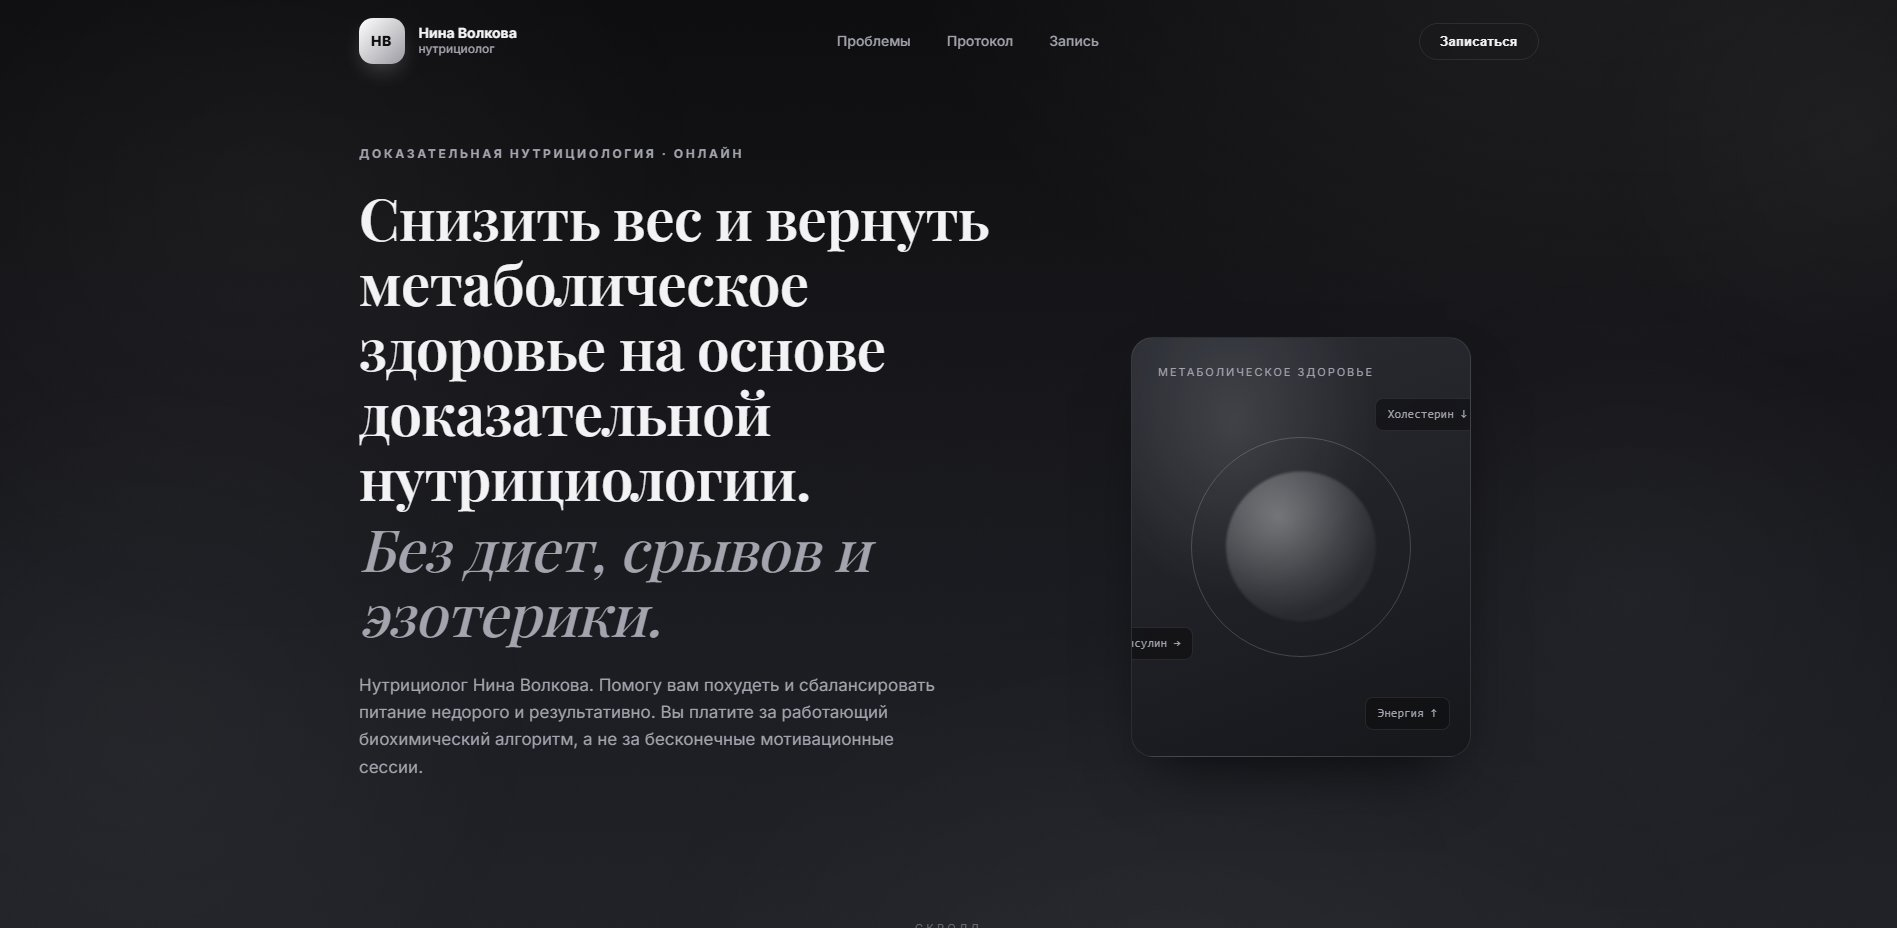
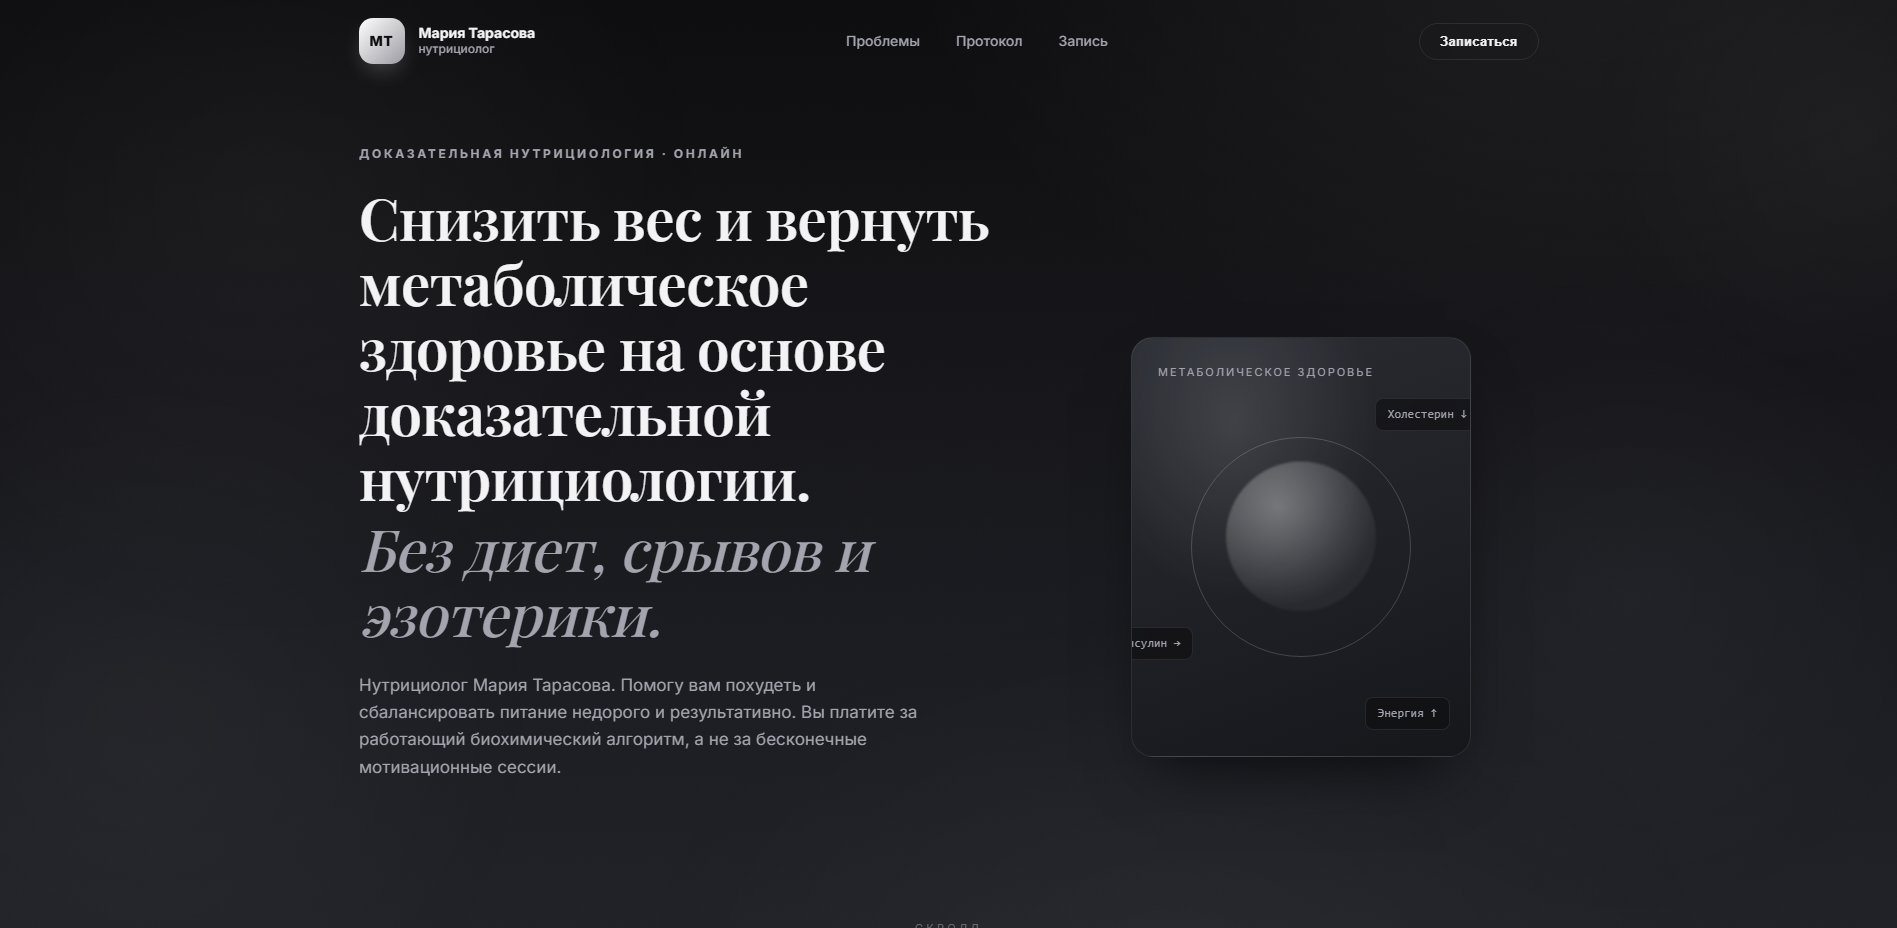
Нутрициолог: Нина Волкова -> Мария Тарасова (лендинг nutricion), обновлено превью project-1.jpg; кэш-бюст ?v=2

diff --git a/lendings/nutricion/index.html b/lendings/nutricion/index.html
@@ -3,7 +3,7 @@
 <head>
   <meta charset="UTF-8" />
   <meta name="viewport" content="width=device-width, initial-scale=1.0" />
-  <title>Нутрициолог Нина Волкова — доказательная нутрициология</title>
+  <title>Нутрициолог Мария Тарасова — доказательная нутрициология</title>
   <meta name="description" content="Снизить вес и вернуть метаболическое здоровье на основе доказательной нутрициологии. Без диет, срывов и эзотерики." />
   <link rel="preconnect" href="https://fonts.googleapis.com" />
   <link rel="preconnect" href="https://fonts.gstatic.com" crossorigin />
@@ -23,8 +23,8 @@
   <header class="header" id="header">
     <nav class="nav container">
       <a href="#hero" class="brand">
-        <span class="brand-mark">НВ</span>
-        <span class="brand-name">Нина Волкова<br /><small>нутрициолог</small></span>
+        <span class="brand-mark">МТ</span>
+        <span class="brand-name">Мария Тарасова<br /><small>нутрициолог</small></span>
       </a>
       <ul class="nav-links">
         <li><a href="#pain" class="js-anchor">Проблемы</a></li>
@@ -46,7 +46,7 @@
             <span class="accent">Без диет, срывов и эзотерики.</span>
           </h1>
           <p class="hero-sub reveal" data-reveal>
-            Нутрициолог Нина Волкова. Помогу вам похудеть и сбалансировать питание недорого
+            Нутрициолог Мария Тарасова. Помогу вам похудеть и сбалансировать питание недорого
             и результативно. Вы платите за работающий биохимический алгоритм, а не за бесконечные
             мотивационные сессии.
           </p>
@@ -162,7 +162,7 @@
 
   <footer class="footer">
     <div class="container footer-inner">
-      <p>© <span id="year"></span> Нина Волкова · нутрициолог</p>
+      <p>© <span id="year"></span> Мария Тарасова · нутрициолог</p>
       <p class="footer-note">Доказательная нутрициология. Не является медицинской услугой.</p>
     </div>
   </footer>

diff --git a/index.html b/index.html
@@ -249,7 +249,7 @@
           -->
           <article class="card reveal" data-reveal="scale" data-delay="0">
             <div class="card__media">
-              <img class="card__img" src="images/portfolio/project-1.jpg" alt="Лендинг нутрициолога" width="1897" height="928" loading="lazy" decoding="async">
+              <img class="card__img" src="images/portfolio/project-1.jpg?v=2" alt="Лендинг нутрициолога" width="1897" height="928" loading="lazy" decoding="async">
               <div class="card__overlay">
                 <p class="card__overlay-title">Как это работает</p>
                 <p class="card__overlay-text">Анкета с сайта сразу попадает в Google Таблицу: специалист видит контакты и цель клиента, отвечает с готовым протоколом питания.</p>

diff --git a/portfolio.html b/portfolio.html
@@ -74,7 +74,7 @@
         <div class="portfolio__grid">
           <article class="card reveal" data-delay="0">
             <div class="card__media">
-              <img class="card__img" src="images/portfolio/project-1.jpg" alt="Лендинг нутрициолога" width="1897" height="928" loading="lazy" decoding="async">
+              <img class="card__img" src="images/portfolio/project-1.jpg?v=2" alt="Лендинг нутрициолога" width="1897" height="928" loading="lazy" decoding="async">
             </div>
             <div class="card__body">
               <h2 class="card__title">Лендинг нутрициолога</h2>
